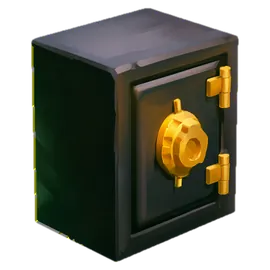
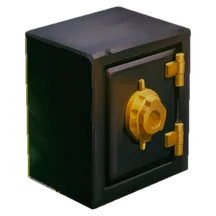
Décors : plus de carré gris, placement plus aéré
- images assombries à la conversion (80 %), transparence conservée ; filtre de
  luminosité retiré (il pouvait rendre un calque opaque sur iOS)
- environ 1 décor pour 3 ronds, côtés alternés, dans le creux des virages à
  mi-chemin entre le rond et le bord, jamais du côté de Val sur les mêmes
  lignes ni au-dessus du premier rond ; 56 à 72 px, rotation de ±4°

diff --git a/src/utils/modulePath.ts b/src/utils/modulePath.ts
@@ -62,10 +62,8 @@ export const HALO_SIZE = 112; // au plus 1,5 fois le rond (règle des halos)
 export const BUBBLE_W = 132;
 export const BUBBLE_H = 40;
 export const BUBBLE_GAP = 28; // bas de la bulle → haut du rond (l'anneau déborde de 17)
-// Place au-dessus du premier rond : la bulle et son rebond, et une rangée
-// de décors
-export const DECOR_TOP_ROOM = 40;
-export const PATH_TOP = BUBBLE_H + BUBBLE_GAP + 12 + DECOR_TOP_ROOM;
+// Place au-dessus du premier rond, pour la bulle et son rebond
+export const PATH_TOP = BUBBLE_H + BUBBLE_GAP + 12;
 export const VAL_W = 128;
 
 export function pathOffset(index: number): number {
@@ -252,24 +250,22 @@ export const DECOR_NAMES = [
 ] as const;
 export type DecorName = (typeof DECOR_NAMES)[number];
 
-export const DECOR_MIN = 64;
-export const DECOR_MAX = 88;
-export const DECOR_ROTATION = 6;
+export const DECOR_MIN = 56;
+export const DECOR_MAX = 72;
+export const DECOR_ROTATION = 4;
 // Marge minimale au bord de l'écran
 export const DECOR_EDGE = 8;
-const DECOR_INWARD_JITTER = 12;
-// Écart vertical minimal entre deux décors (même côté ou non)
-const DECOR_GAP_Y = Math.round(STEP_Y * 0.9);
+// Écart minimal entre deux décors, en lignes
+const DECOR_ROW_GAP = 2;
 // Effet de profondeur (92 % de la vitesse) : déplacement vertical maximal
 // par rapport au chemin, réservé autour de chaque décor
 export const PARALLAX_FACTOR = 0.08;
 export const PARALLAX_MAX = 20;
 // Ombre au sol sous le décor
 export const DECOR_SHADOW_H = 10;
-// Au moins 3 décors, puis environ un tous les deux ronds
-export const DECOR_MIN_COUNT = 3;
 
-export type DecorSpot = { name: DecorName; rect: Rect; rotation: number; row: number };
+export type DecorSide = -1 | 1; // -1 : à gauche du chemin ; 1 : à droite
+export type DecorSpot = { name: DecorName; rect: Rect; rotation: number; row: number; side: DecorSide };
 
 // Tirage pseudo-aléatoire stable (mulberry32) : même module, mêmes décors
 export function seededRandom(seed: number): () => number {
@@ -283,70 +279,88 @@ export function seededRandom(seed: number): () => number {
   };
 }
 
+// Environ 1 décor pour 3 ronds (trophée compris), au moins 1
 export function decorTarget(stepCount: number): number {
-  return Math.max(DECOR_MIN_COUNT, Math.ceil((stepCount + 1) / 2));
+  return Math.max(1, Math.round((stepCount + 1) / 3));
 }
 
-// Décors au bord du chemin, collés au bord de l'écran (8 px au moins), des
-// deux côtés : au-dessus du premier rond, à chaque ligne et demi-ligne, et
-// autour du trophée. Jamais sur un rond, l'anneau, le halo, la bulle, Val ou
-// un autre décor (marge de l'effet de profondeur comprise), jamais coupé par
-// le bord. Côté opposé au rond essayé d'abord ; taille réduite si la place
-// manque. Objets tirés selon l'id du module, jamais deux fois le même de suite.
+type Candidate = { row: number; side: DecorSide; rect: Rect; zone: Rect; bend: boolean };
+
+// Décors au bord du chemin :
+// - de préférence dans le creux d'un virage, du côté opposé au rond de sa
+//   ligne, à mi-chemin entre ce rond et le bord de l'écran ;
+// - sinon sur une autre ligne, toujours à l'opposé du rond (rond centré : un
+//   côté ou l'autre) ;
+// - jamais au-dessus du premier rond, jamais deux de suite du même côté,
+//   jamais du côté de Val sur les mêmes lignes, jamais sur un rond, l'anneau,
+//   le halo, la bulle ou un autre décor (marge de l'effet de profondeur
+//   comprise) ; s'il n'y a pas de place, un décor de moins.
+// Objets, tailles et rotations tirés selon l'id du module ; jamais deux fois
+// le même objet de suite.
 export function decorSpots(moduleId: number, views: LessonView[], width: number, vals: ValSpot[]): DecorSpot[] {
   const rand = seededRandom(moduleId * 7919 + 17);
   const trophyRow = views.length;
-  const taken: Rect[] = [...pathObstacles(views, width), ...vals.map((v) => v.rect)];
-  const spots: DecorSpot[] = [];
+  const obstacles = pathObstacles(views, width);
   const target = decorTarget(views.length);
-  let previous: DecorName | null = null;
-  let lastY = -Infinity;
 
-  // Lignes candidates (en rang : 0,5 = entre deux ronds), du haut vers le bas
-  const rows: number[] = [-0.75];
-  for (let r = 0; r <= trophyRow; r++) rows.push(r, r + 0.5);
-  rows.push(trophyRow + 0.9);
-
-  for (const row of rows) {
-    if (spots.length >= target) break;
-    const cy0 = rowCenterY(0) + row * STEP_Y;
-    if (cy0 - lastY < DECOR_GAP_Y) continue;
-
-    // Tirages faits pour chaque ligne, même sans décor posé : ordre stable
-    const preferred = DECOR_MAX - Math.round(rand() * (DECOR_MAX - DECOR_MIN));
-    const rotation = Math.round((rand() * 2 - 1) * DECOR_ROTATION * 10) / 10;
-    const inward = rand() * DECOR_INWARD_JITTER;
+  // Candidats, ligne par ligne (tirages faits pour chaque ligne : ordre stable)
+  const candidates: Candidate[] = [];
+  for (let row = 1; row <= trophyRow; row++) {
+    const size = Math.round(DECOR_MIN + rand() * (DECOR_MAX - DECOR_MIN));
     const coin = rand();
-    let pick = Math.floor(rand() * DECOR_NAMES.length);
-    if (DECOR_NAMES[pick] === previous) pick = (pick + 1) % DECOR_NAMES.length;
-
-    // Côté : à l'opposé du rond le plus proche ; rond centré → au hasard
-    const offset = pathOffset(Math.round(row));
-    const first = offset !== 0 ? -Math.sign(offset) : coin < 0.5 ? -1 : 1;
-    const sizes = [preferred, ...[72, DECOR_MIN].filter((s) => s < preferred)];
-
-    let placed: DecorSpot | null = null;
-    for (const side of [first, -first]) {
-      for (const size of sizes) {
-        const x = side < 0 ? DECOR_EDGE + inward : width - DECOR_EDGE - inward - size;
-        const rect = { x, y: cy0 - size / 2, w: size, h: size + DECOR_SHADOW_H / 2 };
-        const zone = inflate(rect, 2, PARALLAX_MAX);
-        const inside = rect.x >= DECOR_EDGE && rect.x + rect.w <= width - DECOR_EDGE && zone.y >= 0;
-        if (inside && !taken.some((t) => intersects(zone, t))) {
-          placed = { name: DECOR_NAMES[pick], rect, rotation, row };
-          taken.push(zone);
-          break;
-        }
+    const offset = pathOffset(row);
+    const shape = row === trophyRow ? 'trophy' : viewShape(views[row]);
+    const node = nodeRect(row, width, shape);
+    const sides: DecorSide[] = offset !== 0 ? [offset > 0 ? -1 : 1] : coin < 0.5 ? [-1, 1] : [1, -1];
+    for (const side of sides) {
+      // À mi-chemin entre le bord du rond et le bord de l'écran
+      const gapStart = side < 0 ? 0 : node.x + node.w;
+      const gapEnd = side < 0 ? node.x : width;
+      const cx = (gapStart + gapEnd) / 2;
+      const cy = rowCenterY(row);
+      const rect = { x: cx - size / 2, y: cy - size / 2, w: size, h: size + DECOR_SHADOW_H / 2 };
+      const zone = inflate(rect, 2, PARALLAX_MAX);
+      const inside = rect.x >= DECOR_EDGE && rect.x + rect.w <= width - DECOR_EDGE;
+      // Jamais du côté de Val sur les mêmes lignes
+      const valSide = vals.some(
+        (v) => Math.sign(v.rect.x + v.rect.w / 2 - width / 2) === side && zone.y < v.rect.y + v.rect.h && v.rect.y < zone.y + zone.h
+      );
+      const free = !obstacles.some((o) => intersects(zone, o)) && !vals.some((v) => intersects(zone, v.rect));
+      if (inside && !valSide && free) {
+        candidates.push({ row, side, rect, zone, bend: Math.abs(offset) === BEND_OFFSET });
       }
-      if (placed) break;
-    }
-    if (placed) {
-      spots.push(placed);
-      previous = placed.name;
-      lastY = cy0;
     }
   }
-  return spots;
+
+  // Choix : les virages d'abord, puis les autres lignes. Un candidat n'est
+  // gardé que si, rangé dans l'ordre du chemin, il reste à 2 lignes de ses
+  // voisins et d'un autre côté qu'eux.
+  const chosen: Candidate[] = [];
+  const fits = (c: Candidate) => {
+    const sorted = [...chosen, c].sort((a, b) => a.row - b.row);
+    const i = sorted.indexOf(c);
+    const before = sorted[i - 1];
+    const after = sorted[i + 1];
+    const ok = (n?: Candidate) => !n || (Math.abs(n.row - c.row) >= DECOR_ROW_GAP && n.side !== c.side);
+    return ok(before) && ok(after) && !chosen.some((n) => intersects(n.zone, c.zone));
+  };
+  for (const pass of [true, false]) {
+    for (const c of candidates) {
+      if (chosen.length >= target) break;
+      if (c.bend === pass && fits(c)) chosen.push(c);
+    }
+  }
+  chosen.sort((a, b) => a.row - b.row);
+
+  // Objets et rotations, dans l'ordre du chemin
+  let previous: DecorName | null = null;
+  return chosen.map((c) => {
+    let pick = Math.floor(rand() * DECOR_NAMES.length);
+    if (DECOR_NAMES[pick] === previous) pick = (pick + 1) % DECOR_NAMES.length;
+    previous = DECOR_NAMES[pick];
+    const rotation = Math.round((rand() * 2 - 1) * DECOR_ROTATION * 10) / 10;
+    return { name: DECOR_NAMES[pick], rect: c.rect, rotation, row: c.row, side: c.side };
+  });
 }
 
 // Hauteur du chemin, décors sous le trophée compris

diff --git a/src/components/apprendre/module/path/ModulePath.tsx b/src/components/apprendre/module/path/ModulePath.tsx
@@ -56,8 +56,6 @@ const CURRENT_HALO_OPACITY = 0.25;
 // Ombres au sol de Val et des décors
 const VAL_SHADOW_OPACITY = 0.55;
 const DECOR_SHADOW_OPACITY = 0.4;
-// Décors au second plan
-const DECOR_BRIGHTNESS = 0.8;
 // Déverrouillage : le rond réussi se remplit, puis le suivant s'ouvre
 const UNLOCK_DELAY = 650;
 const BOTTOM_ROOM = 32;
@@ -327,7 +325,7 @@ function GroundShadow({
   );
 }
 
-// Un décor : au second plan (luminosité 80 %), légère rotation, ombre au sol,
+// Un décor : au second plan (image assombrie), légère rotation, ombre au sol,
 // et il défile à 92 % de la vitesse du chemin (pas avec les animations réduites)
 function Decor({
   decor,
@@ -360,17 +358,13 @@ function Decor({
         left={rect.w * 0.15}
         top={rect.w - DECOR_SHADOW_H / 2 - 4}
       />
-      {/* Luminosité et rotation sur la vue : le style d'une image n'accepte pas filter */}
-      <View
-        style={{
-          width: rect.w,
-          height: rect.w,
-          transform: [{ rotate: `${decor.rotation}deg` }],
-          filter: [{ brightness: DECOR_BRIGHTNESS }],
-        }}
-      >
-        <Image source={DECOR_IMAGES[decor.name]} resizeMode="contain" style={{ width: rect.w, height: rect.w }} />
-      </View>
+      {/* Images déjà assombries (80 %) à la conversion : aucun filtre ici, un
+          filtre peut rendre un calque opaque sur iOS */}
+      <Image
+        source={DECOR_IMAGES[decor.name]}
+        resizeMode="contain"
+        style={{ width: rect.w, height: rect.w, transform: [{ rotate: `${decor.rotation}deg` }] }}
+      />
     </Animated.View>
   );
 }
